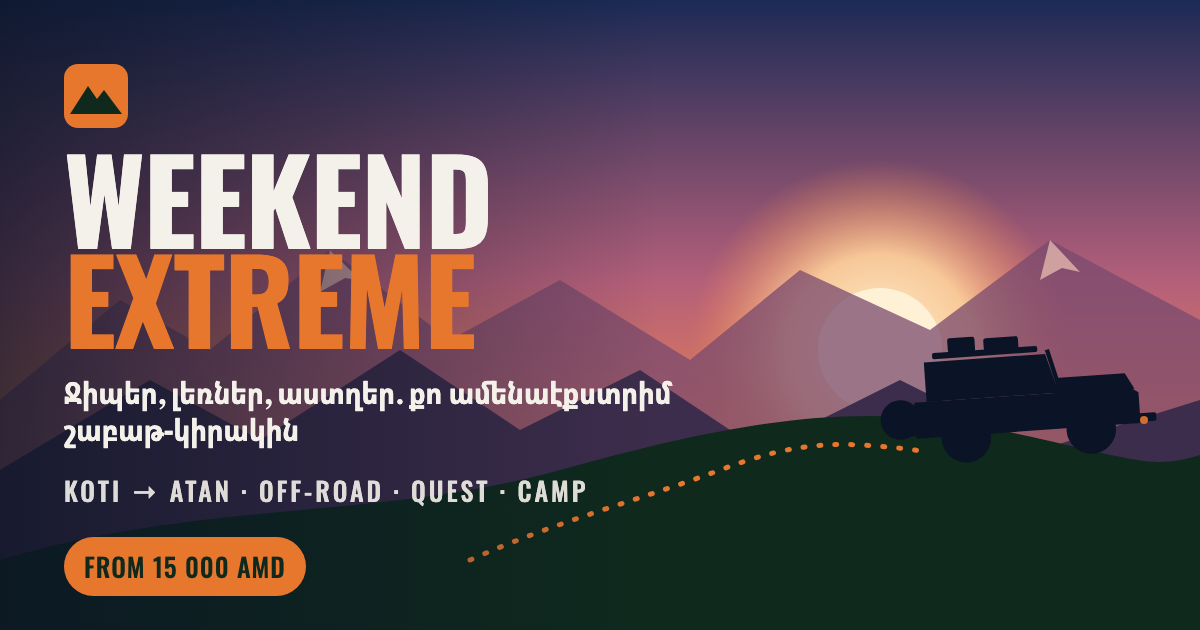
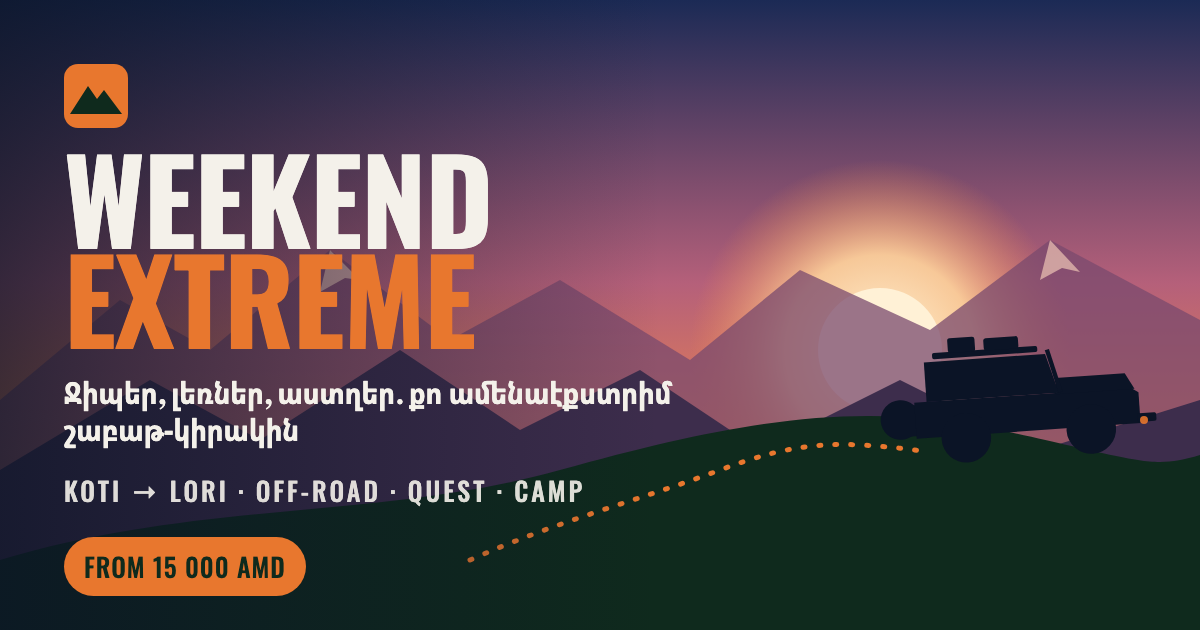
s

Changed region(s): [[0.1233, 0.754, 0.4933, 0.8143]]

diff --git a/src/config/content.ts b/src/config/content.ts
@@ -294,7 +294,7 @@ export const CHECKPOINTS: Checkpoint[] = [
   },
   {
     u: 1, alt: 2200, image: '', icon: 'tent',
-    name: { hy: 'Ճամբար Աթանի մոտ', en: 'Camp near Atan', ru: 'Лагерь у Атана' },
+    name: { hy: 'Լեռնային ճամբար', en: 'Mountain camp', ru: 'Горный лагерь' },
     text: {
       hy: 'Մոտ 2 ժամ անց՝ ճամբարը Լոռու ալպյան մարգագետիններում։ Խորոված, խարույկ և աստղեր։',
       en: 'About 2 hours later — our camp in the alpine meadows of Lori. Khorovats, campfire and stars.',
@@ -342,9 +342,9 @@ export const T = {
       ru: 'Weekend Extreme — джип-экспедиции по Армении | Лагерь, квест, звёзды',
     },
     description: {
-      hy: '2–3 օրանոց off-road արշավ ՈՒԱԶ և Նիվա ջիպերով՝ Կոթի գյուղից (Տավուշ) մինչև ալպյան ճամբար Աթանի մոտ (Լոռի)։ Քվեստ խաղ, խորոված, խարույկ, աստղեր։ 15 000 դրամից։',
-      en: '2–3 day off-road expedition by UAZ & Niva jeeps from Koti village (Tavush) to an alpine camp near Atan (Lori). Quest game, khorovats, campfire, stars. From 15 000 AMD.',
-      ru: 'Off-road экспедиция на 2–3 дня на УАЗ и Нивах из села Коти (Тавуш) в альпийский лагерь у Атана (Лори). Квест, хоровац, костёр, звёзды. От 15 000 драм.',
+      hy: '2–3 օրանոց off-road արշավ ՈՒԱԶ և Նիվա ջիպերով՝ Կոթի գյուղից (Տավուշ) մինչև Լոռու ալպյան ճամբար։ Քվեստ խաղ, խորոված, խարույկ, աստղեր։ 15 000 դրամից։',
+      en: '2–3 day off-road expedition by UAZ & Niva jeeps from Koti village (Tavush) to an alpine camp in Lori. Quest game, khorovats, campfire, stars. From 15 000 AMD.',
+      ru: 'Off-road экспедиция на 2–3 дня на УАЗ и Нивах из села Коти (Тавуш) в альпийский лагерь в Лори. Квест, хоровац, костёр, звёзды. От 15 000 драм.',
     },
   },
 
@@ -415,9 +415,9 @@ export const T = {
       {
         title: { hy: 'Լեռնային ճամբար', en: 'Mountain camp', ru: 'Горный лагерь' },
         text: {
-          hy: 'Գիշեր Աթանի մոտ ալպյան մարգագետիններում՝ խարույկ, խորոված և աստղեր։',
-          en: 'A night in the alpine meadows near Atan — campfire, khorovats and stars.',
-          ru: 'Ночь на альпийских лугах у Атана — костёр, хоровац и звёзды.',
+          hy: 'Գիշեր Լոռու ալպյան մարգագետիններում՝ խարույկ, խորոված և աստղեր։',
+          en: 'A night in the alpine meadows of Lori — campfire, khorovats and stars.',
+          ru: 'Ночь на альпийских лугах Лори — костёр, хоровац и звёзды.',
         },
       },
       {
@@ -440,9 +440,9 @@ export const T = {
     eyebrow: { hy: 'Երթուղի և քարտեզ', en: 'Route & map', ru: 'Маршрут и карта' },
     title: { hy: 'Կոթիից մինչև ամպեր', en: 'From Koti to the clouds', ru: 'Из Коти — до облаков' },
     lead: {
-      hy: 'Ջիպային երթուղին միշտ սկսվում է Կոթի գյուղից (Տավուշ)՝ բոլոր խմբերի համար։ Կոթի → անտառներ և լեռնային ճանապարհներ → ալպյան մարգագետիններ → ճամբար Աթանի մոտ (Լոռի), ~2 ժամ 4x4-ով։',
-      en: 'The jeep route always starts in Koti village (Tavush) — for every group. Koti → forests & mountain roads → alpine meadows → camp near Atan (Lori), ~2 h by 4x4.',
-      ru: 'Джип-маршрут всегда начинается в селе Коти (Тавуш) — для всех групп. Коти → леса и горные дороги → альпийские луга → лагерь у Атана (Лори), ~2 ч на 4x4.',
+      hy: 'Ջիպային երթուղին միշտ սկսվում է Կոթի գյուղից (Տավուշ)՝ բոլոր խմբերի համար։ Կոթի → անտառներ և լեռնային ճանապարհներ → ալպյան մարգագետիններ → ճամբար Լոռու ալպյան մարգագետիններում, ~2 ժամ 4x4-ով։',
+      en: 'The jeep route always starts in Koti village (Tavush) — for every group. Koti → forests & mountain roads → alpine meadows → our camp in the alpine meadows of Lori, ~2 h by 4x4.',
+      ru: 'Джип-маршрут всегда начинается в селе Коти (Тавуш) — для всех групп. Коти → леса и горные дороги → альпийские луга → лагерь на альпийских лугах Лори, ~2 ч на 4x4.',
     },
     why: {
       hy: 'Ճանապարհը երկար է, դրա համար էլ սա 2–3 օրանոց արշավ է՝ գիշերակացով լեռներում, և ոչ թե հոգնեցնող մեկօրյա տուր։',
@@ -620,9 +620,9 @@ export const T = {
     eyebrow: { hy: 'Ճամբար', en: 'The camp', ru: 'Лагерь' },
     title: { hy: 'Գիշերը ամպերից վեր', en: 'A night above the clouds', ru: 'Ночь над облаками' },
     lead: {
-      hy: 'Մշտական ճամբար վարձակալած հողատարածքում՝ Աթանի մոտ ալպյան մարգագետիններում։',
-      en: 'A permanent camp on rented land in the alpine meadows near Atan.',
-      ru: 'Постоянный лагерь на арендованной земле среди альпийских лугов у Атана.',
+      hy: 'Մշտական ճամբար վարձակալած հողատարածքում՝ Լոռու ալպյան մարգագետիններում։',
+      en: 'A permanent camp on rented land in the alpine meadows of Lori.',
+      ru: 'Постоянный лагерь на арендованной земле среди альпийских лугов Лори.',
     },
     day: { hy: 'Օր', en: 'Day', ru: 'День' },
     night: { hy: 'Գիշեր', en: 'Night', ru: 'Ночь' },
@@ -977,9 +977,9 @@ export const T = {
 
   footer: {
     about: {
-      hy: 'Weekend Extreme-ը նոր off-road ջիպ-արշավների ընկերություն է Հյուսիսային Հայաստանում․ Կոթիից (Տավուշ) մինչև Աթանի մոտ ալպյան մարգագետիններ (Լոռի)։',
-      en: 'Weekend Extreme is a new off-road jeep expedition company in northern Armenia — from Koti (Tavush) to the alpine meadows near Atan (Lori).',
-      ru: 'Weekend Extreme — новая компания джип-экспедиций на севере Армении: от Коти (Тавуш) до альпийских лугов у Атана (Лори).',
+      hy: 'Weekend Extreme-ը նոր off-road ջիպ-արշավների ընկերություն է Հյուսիսային Հայաստանում․ Կոթիից (Տավուշ) մինչև Լոռու ալպյան մարգագետիններ։',
+      en: 'Weekend Extreme is a new off-road jeep expedition company in northern Armenia — from Koti (Tavush) to the alpine meadows of Lori.',
+      ru: 'Weekend Extreme — новая компания джип-экспедиций на севере Армении: от Коти (Тавуш) до альпийских лугов Лори.',
     },
     contacts: { hy: 'Կոնտակտներ', en: 'Contacts', ru: 'Контакты' },
     follow: { hy: 'Հետևիր մեզ', en: 'Follow us', ru: 'Мы в соцсетях' },
@@ -987,7 +987,6 @@ export const T = {
     partners: { hy: 'Գործընկերներ', en: 'Partners', ru: 'Партнёры' },
     partnersList: [
       { hy: 'Կոթի համայնք', en: 'Koti community', ru: 'Община Коти' },
-      { hy: 'Աթան համայնք', en: 'Atan community', ru: 'Община Атан' },
       { hy: 'Տեղի ընտանիքներ', en: 'Local families', ru: 'Местные семьи' },
     ],
     campMap: { hy: 'Ճամբարը քարտեզում', en: 'Camp on the map', ru: 'Лагерь на карте' },

diff --git a/src/config/seo.ts b/src/config/seo.ts
@@ -4,7 +4,7 @@
 import { LANGS, PACKAGES, SITE, T, type Lang } from './content';
 
 export const KEYWORDS = [
-  'Weekend Extreme', 'off-road tour Armenia', 'jeep tour Tavush Lori', 'Koti', 'Atan',
+  'Weekend Extreme', 'off-road tour Armenia', 'jeep tour Tavush Lori', 'Koti', 'Lori',
   'camping Armenia', 'team building Armenia', 'ջիպ տուր', 'էքստրիմ տուր', 'շաբաթ-կիրակի տուր', 'ճամբար',
   'джип тур Армения', 'off-road Армения',
 ].join(', ');
@@ -34,7 +34,7 @@ export function structuredData(lang: Lang) {
       '@type': 'ItemList',
       itemListElement: [
         { '@type': 'ListItem', position: 1, item: { '@type': 'Place', name: 'Koti village, Tavush, Armenia' } },
-        { '@type': 'ListItem', position: 2, item: { '@type': 'Place', name: 'Alpine camp near Atan, Lori, Armenia', hasMap: SITE.campMapUrl } },
+        { '@type': 'ListItem', position: 2, item: { '@type': 'Place', name: 'Alpine camp, Lori, Armenia', hasMap: SITE.campMapUrl } },
       ],
     },
     provider: {

diff --git a/scripts/og-image.html b/scripts/og-image.html
@@ -47,7 +47,7 @@
 <div style="position:absolute;left:64px;top:148px;color:#F4F1EA">
   <div class="t1">Weekend<br/><span style="color:#E8772E">Extreme</span></div>
   <div class="t2" style="margin-top:26px;max-width:620px;line-height:1.25">Ջիպեր, լեռներ, աստղեր. քո ամենաէքստրիմ շաբաթ-կիրակին</div>
-  <div class="t3" style="margin-top:22px;color:#F4F1EA;opacity:.9">Koti → Atan · Off-road · Quest · Camp</div>
+  <div class="t3" style="margin-top:22px;color:#F4F1EA;opacity:.9">Koti → Lori · Off-road · Quest · Camp</div>
 </div>
 <div class="t3" style="position:absolute;left:64px;bottom:34px;background:#E8772E;color:#0F2A1D;padding:10px 20px;border-radius:999px;letter-spacing:1px">from 15 000 AMD</div>
 </body></html>

diff --git a/src/sections/Footer.tsx b/src/sections/Footer.tsx
@@ -67,7 +67,7 @@ export function Footer() {
             <ul className="mt-4 space-y-2.5 text-[15px] text-offwhite/75">
               {T.footer.partnersList.map((p, i) => (
                 <li key={i} className="flex items-center gap-2">
-                  <Icon name={i === 2 ? 'users' : 'building'} size={16} className="text-offwhite/40" /> {t(p)}
+                  <Icon name={i === T.footer.partnersList.length - 1 ? 'users' : 'building'} size={16} className="text-offwhite/40" /> {t(p)}
                 </li>
               ))}
             </ul>

diff --git a/index.html b/index.html
@@ -15,7 +15,7 @@
     <div id="root"></div>
     <noscript>
       <div style="padding:24px;font-family:sans-serif;background:#0F2A1D;color:#F4F1EA">
-        Weekend Extreme — off-road jeep expeditions in Armenia: Koti (Tavush) → alpine camp near Atan (Lori).
+        Weekend Extreme — off-road jeep expeditions in Armenia: Koti (Tavush) → alpine camp in Lori.
         Please enable JavaScript to see prices and booking.
       </div>
     </noscript>

diff --git a/src/three/Camp.tsx b/src/three/Camp.tsx
@@ -1,4 +1,4 @@
-/* The camp near Atan (tents, dining canopy, toilet, solar shower, campfire with
+/* The mountain camp in Lori (tents, dining canopy, toilet, solar shower, campfire with
  * sparks, fairy lights, flag) and the start village Koti. */
 import { useMemo, useRef } from 'react';
 import { useFrame } from '@react-three/fiber';

diff --git a/src/three/Route.tsx b/src/three/Route.tsx
@@ -170,7 +170,7 @@ export function Beacons() {
   );
 }
 
-/* "Koti · start" and "Camp · Atan" labels that live in the 3D world */
+/* "Koti · start" and "Mountain camp" labels that live in the 3D world */
 export function RouteLabels() {
   const { t } = useLang();
   const ref = useRef<HTMLDivElement[]>([]);

diff --git a/src/three/world.ts b/src/three/world.ts
@@ -45,7 +45,7 @@ const CTRL: [number, number][] = [
   [56, -34],
   [82, -56],
   [100, -88],
-  [124, -116], // CAMP near Atan — END
+  [124, -116], // mountain CAMP (Lori) — END
 ];
 
 const SAMPLES = 260;

diff --git a/README.md b/README.md
@@ -1,6 +1,6 @@
 # Weekend Extreme — website
 
-Immersive single-page site for **Weekend Extreme**, off-road jeep expeditions from Koti (Tavush) to the alpine camp near Atan (Lori).
+Immersive single-page site for **Weekend Extreme**, off-road jeep expeditions from Koti (Tavush) to the alpine camp in Lori.
 
 - **3D hero**: real-time low-poly mountains, forests, wind-blown grass, fog and clouds. A convoy of UAZ-style jeeps drives the glowing route Koti → Camp **as you scroll**, with a live HUD (checkpoint, time on the road, altitude).
 - **Day → night** in the Camp section: the sun sets, then stars, the Milky Way, the moon and a flickering campfire with sparks.
